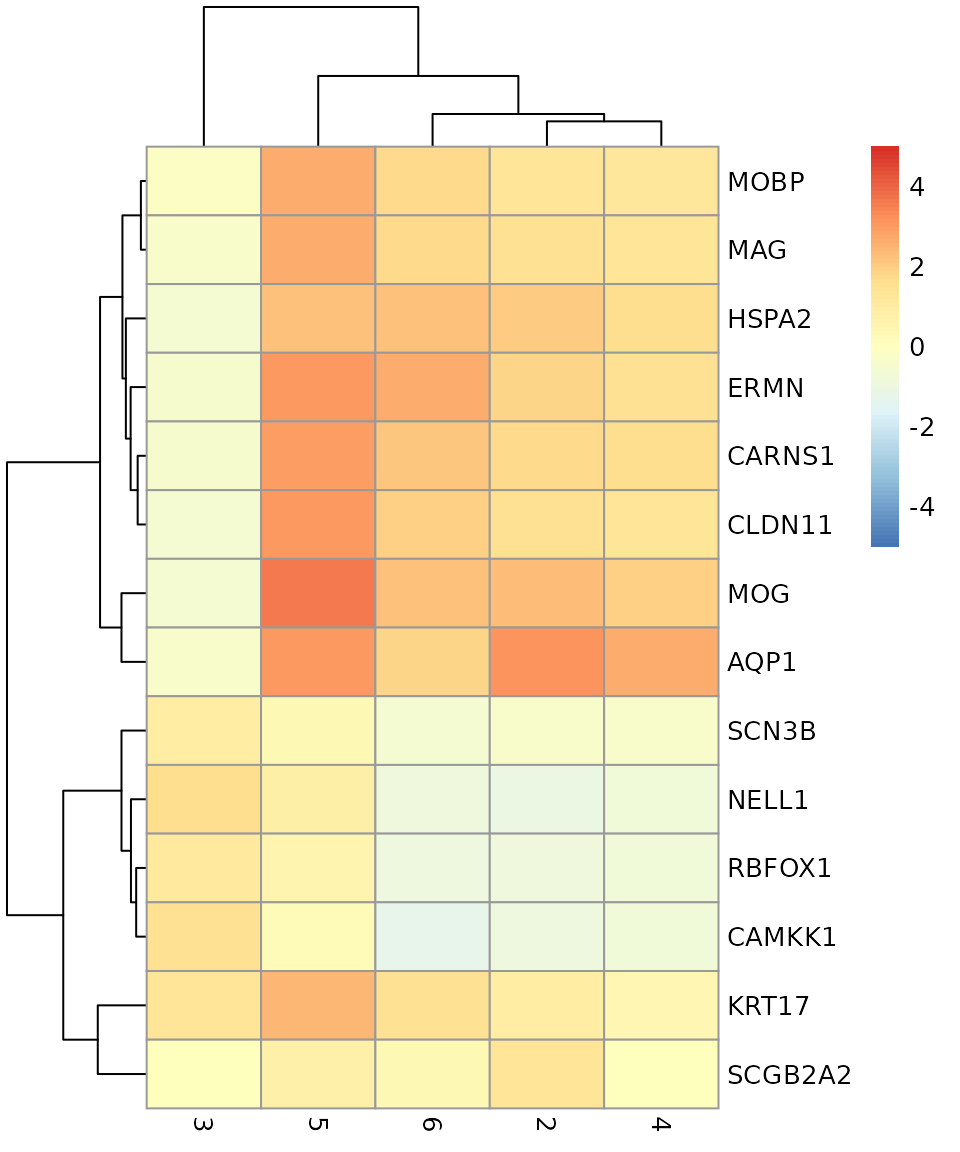
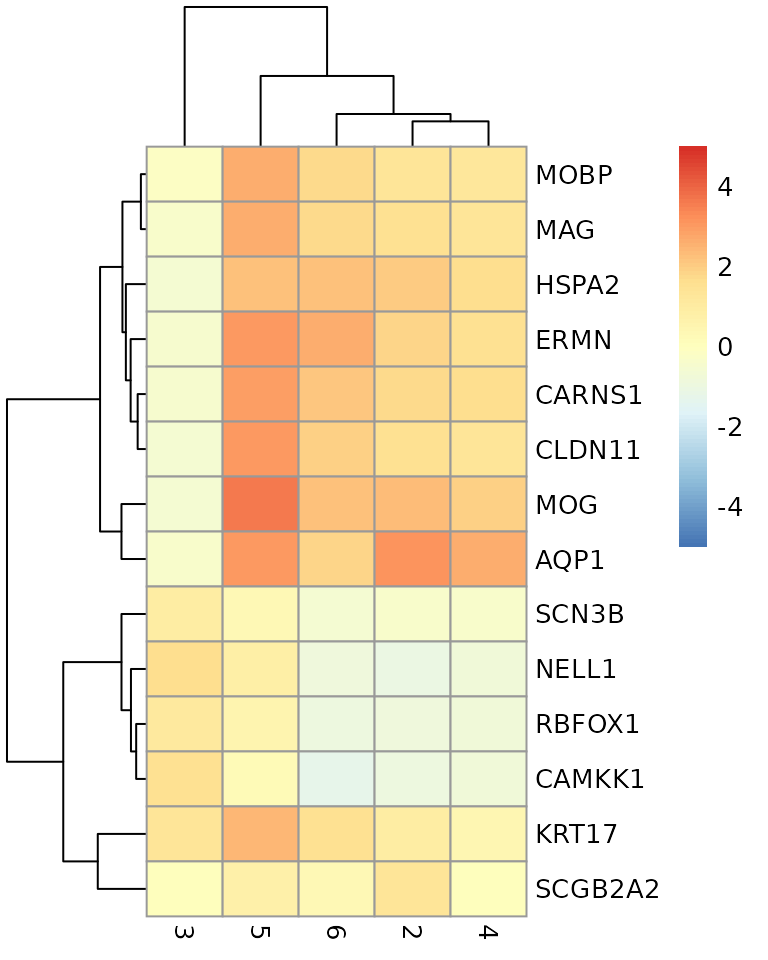
Deploying to gh-pages from  @ 534957017812c2b14cd5c3894c7c99ae3be02a8c 🚀

Changed region(s): [[0.0, 0.0, 0.9688, 1.0]]

diff --git a/articles/Vignette03_Analysis_workflow.html b/articles/Vignette03_Analysis_workflow.html
@@ -96,7 +96,7 @@
 
     
     
-<p>Last updated: 2021-08-07</p>
+<p>Last updated: 2021-08-08</p>
 <div id="visium-human-dlpfc-workflow" class="section level2">
 <h2 class="hasAnchor">
 <a href="#visium-human-dlpfc-workflow" class="anchor"></a>Visium human DLPFC workflow</h2>
@@ -108,7 +108,7 @@
 <a href="#load-data" class="anchor"></a>Load data</h2>
 <p>We begin by loading the dataset. We have stored a copy of this dataset in <a href="https://bioconductor.org/packages/SpatialExperiment">SpatialExperiment</a> format in the <a href="https://bioconductor.org/packages/STexampleData">STexampleData</a> package, to make it easier to load for use in examples and tutorials.</p>
 <p>If you are using the latest <code>devel</code> version of Bioconductor 3.14, the dataset can be loaded as shown in the code below.</p>
-<p>Alternatively, if you are working in a <code>release</code> version of Bioconductor 3.13, the helper function shown in the code comments can be used instead.</p>
+<p>Alternatively, if you are working in a <code>release</code> version of Bioconductor 3.13, the helper function shown in the code comments below can be used instead.</p>
 <div class="sourceCode" id="cb1"><pre class="downlit sourceCode r">
 <code class="sourceCode R"><span class="kw"><a href="https://rdrr.io/r/base/library.html">library</a></span><span class="op">(</span><span class="va">SpatialExperiment</span><span class="op">)</span>
 <span class="kw"><a href="https://rdrr.io/r/base/library.html">library</a></span><span class="op">(</span><span class="va"><a href="https://github.com/lmweber/STexampleData">STexampleData</a></span><span class="op">)</span>
@@ -134,7 +134,7 @@
 <span class="co">#&gt; spatialCoords names(2) : x y</span>
 <span class="co">#&gt; imgData names(4): sample_id image_id data scaleFactor</span></code></pre></div>
 <div class="sourceCode" id="cb2"><pre class="downlit sourceCode r">
-<code class="sourceCode R"><span class="co"># alternatively: load dataset using helper function if working in Bioc 3.13</span>
+<code class="sourceCode R"><span class="co"># alternatively: load dataset using helper function in Bioc 3.13</span>
 <span class="co"># spe &lt;- load_data("Visium_humanDLPFC")</span>
 <span class="co"># spe</span></code></pre></div>
 </div>
@@ -142,7 +142,7 @@
 <h2 class="hasAnchor">
 <a href="#plot-data" class="anchor"></a>Plot data</h2>
 <p>As an initial check, plot the spatial coordinates (spots) in x-y dimensions on the tissue slide, to check that the object has loaded correctly and that the orientation is as expected.</p>
-<p>We use visualization functions from the <a href="https://github.com/lmweber/ggpavis">ggspavis</a> package to generate plots.</p>
+<p>We use visualization functions from the <a href="https://github.com/lmweber/ggspavis">ggspavis</a> package to generate plots.</p>
 <div class="sourceCode" id="cb3"><pre class="downlit sourceCode r">
 <code class="sourceCode R"><span class="kw"><a href="https://rdrr.io/r/base/library.html">library</a></span><span class="op">(</span><span class="va"><a href="https://github.com/lmweber/ggspavis">ggspavis</a></span><span class="op">)</span></code></pre></div>
 <div class="sourceCode" id="cb4"><pre class="downlit sourceCode r">
@@ -240,7 +240,7 @@
 <div id="normalization" class="section level2">
 <h2 class="hasAnchor">
 <a href="#normalization" class="anchor"></a>Normalization</h2>
-<p>Calculate log-transformed normalized counts, using pool-based size factors and deconvolution to the spot level. We use normalization methods from <a href="https://bioconductor.org/packages/scater">scater</a> (<a href="https://doi.org/10.1093/bioinformatics/btw777">McCarthy et al. 2017</a>) and <a href="https://bioconductor.org/packages/scran">scran</a> (<a href="https://f1000research.com/articles/5-2122/v2">Lun et al. 2016</a>), by assuming that these methods can be applied by treating spots as equivalent to cells. Since we have a single sample, there are no blocking factors.</p>
+<p>Calculate log-transformed normalized counts, using pool-based size factors and deconvolution to the spot level. We use normalization methods from the <a href="https://bioconductor.org/packages/scater">scater</a> (<a href="https://doi.org/10.1093/bioinformatics/btw777">McCarthy et al. 2017</a>) and <a href="https://bioconductor.org/packages/scran">scran</a> (<a href="https://f1000research.com/articles/5-2122/v2">Lun et al. 2016</a>) packages, by assuming that these methods can be applied by treating spots as equivalent to cells. Since we have a single sample, there are no blocking factors.</p>
 <div class="sourceCode" id="cb12"><pre class="downlit sourceCode r">
 <code class="sourceCode R"><span class="kw"><a href="https://rdrr.io/r/base/library.html">library</a></span><span class="op">(</span><span class="va">scran</span><span class="op">)</span></code></pre></div>
 <div class="sourceCode" id="cb13"><pre class="downlit sourceCode r">
@@ -384,13 +384,13 @@
 <span class="va">logFCs</span> <span class="op">&lt;-</span> <span class="fu"><a href="https://rdrr.io/pkg/scran/man/getMarkerEffects.html">getMarkerEffects</a></span><span class="op">(</span><span class="va">best_set</span><span class="op">)</span>
 
 <span class="fu"><a href="https://rdrr.io/pkg/pheatmap/man/pheatmap.html">pheatmap</a></span><span class="op">(</span><span class="va">logFCs</span>, breaks <span class="op">=</span> <span class="fu"><a href="https://rdrr.io/r/base/seq.html">seq</a></span><span class="op">(</span><span class="op">-</span><span class="fl">5</span>, <span class="fl">5</span>, length.out <span class="op">=</span> <span class="fl">101</span><span class="op">)</span><span class="op">)</span></code></pre></div>
-<p><img src="Vignette03_Analysis_workflow_files/figure-html/unnamed-chunk-23-1.png" width="480"></p>
+<p><img src="Vignette03_Analysis_workflow_files/figure-html/unnamed-chunk-23-1.png" width="384"></p>
 <div class="sourceCode" id="cb27"><pre class="downlit sourceCode r">
 <code class="sourceCode R"><span class="co"># plot log-transformed normalized expression of top genes for one cluster</span>
 <span class="va">top_genes</span> <span class="op">&lt;-</span> <span class="fu"><a href="https://rdrr.io/r/utils/head.html">head</a></span><span class="op">(</span><span class="fu"><a href="https://rdrr.io/r/base/colnames.html">rownames</a></span><span class="op">(</span><span class="va">interesting</span><span class="op">)</span><span class="op">)</span>
 
 <span class="fu"><a href="https://rdrr.io/pkg/scater/man/plotExpression.html">plotExpression</a></span><span class="op">(</span><span class="va">spe</span>, x <span class="op">=</span> <span class="st">"label"</span>, features <span class="op">=</span> <span class="va">top_genes</span><span class="op">)</span></code></pre></div>
-<p><img src="Vignette03_Analysis_workflow_files/figure-html/unnamed-chunk-24-1.png" width="672"></p>
+<p><img src="Vignette03_Analysis_workflow_files/figure-html/unnamed-chunk-24-1.png" width="528"></p>
 </div>
   </div>
 

diff --git a/articles/Vignette02_Dataset_and_preprocessing.html b/articles/Vignette02_Dataset_and_preprocessing.html
@@ -96,7 +96,7 @@
 
     
     
-<p>Last updated: 2021-08-07</p>
+<p>Last updated: 2021-08-08</p>
 <div id="example-dataset-human-brain-dlpfc-region" class="section level2">
 <h2 class="hasAnchor">
 <a href="#example-dataset-human-brain-dlpfc-region" class="anchor"></a>Example dataset: human brain DLPFC region</h2>
@@ -116,7 +116,7 @@
 <h2 class="hasAnchor">
 <a href="#image-segmentation-and-cell-counting" class="anchor"></a>Image segmentation and cell counting</h2>
 <p>The first step is to process the raw images, which includes splitting multiple capture areas into individual samples, segmenting cell nuclei, and identifying the number of cells per spot.</p>
-<p>For more details, see the chapter <a href="https://lmweber.org/OSTA-book/image-segmentation-visium.html">Image segmentation (Visium)</a> in OSTA, as well as the paper <a href="https://www.biorxiv.org/content/10.1101/2021.08.04.452489v1">Tippani et al. (2021)</a> describing the <a href="https://github.com/LieberInstitute/VistoSeg">VistoSeg</a> tool.</p>
+<p>For more details, see the chapter <a href="https://lmweber.org/OSTA-book/image-segmentation-visium.html">Image segmentation (Visium)</a> in OSTA, as well as the paper <a href="https://www.biorxiv.org/content/10.1101/2021.08.04.452489v1">Tippani et al. (2021)</a> describing the <a href="http://research.libd.org/VistoSeg/">VistoSeg</a> tool.</p>
 <p>Note that part of this step also requires the Space Ranger outputs described next.</p>
 </div>
 <div id="loupe-browser-and-space-ranger" class="section level2">
@@ -130,7 +130,7 @@
 <a href="#spatialexperiment" class="anchor"></a>SpatialExperiment</h2>
 <p>After running Loupe Browser and Space Ranger, we are ready to load the data into R.</p>
 <p>For this, we use the <a href="https://bioconductor.org/packages/SpatialExperiment">SpatialExperiment</a> data structure. For more details, see the <a href="https://lmweber.org/OSTA-book/spatialexperiment.html">SpatialExperiment</a> chapter in OSTA, or our additional <a href="https://drighelli.github.io/SpatialExperiment_Bioc2021/index.html">SpatialExperiment workshop</a>.</p>
-<p>The schematic below illustrates the <code>SpatialExperiment</code> structure, which extends <a href="https://bioconductor.org/packages/SingleCellExperiment">SingleCellExperiment</a> to include additional spatial information. The structure is flexible, and has been designed to work with data from 10x Genomics Visium as well as other spot-based and molecule-based ST platforms.</p>
+<p>The schematic below illustrates the <code>SpatialExperiment</code> structure, which extends <a href="https://bioconductor.org/packages/SingleCellExperiment">SingleCellExperiment</a> to include additional spatial and image information. The structure is flexible, and has been designed to work with data from 10x Genomics Visium as well as other spot-based and molecule-based ST platforms.</p>
 <div class="figure" style="text-align: center">
 <img src="../inst/images/spe.png" alt="Schematic illustrating [SpatialExperiment](https://bioconductor.org/packages/SpatialExperiment) class structure." width="100%"><p class="caption">
 Schematic illustrating <a href="https://bioconductor.org/packages/SpatialExperiment">SpatialExperiment</a> class structure.

diff --git a/articles/Vignette01_Introduction.html b/articles/Vignette01_Introduction.html
@@ -96,7 +96,7 @@
 
     
     
-<p>Last updated: 2021-08-07</p>
+<p>Last updated: 2021-08-08</p>
 <div id="spatially-resolved-transcriptomics-st" class="section level2">
 <h2 class="hasAnchor">
 <a href="#spatially-resolved-transcriptomics-st" class="anchor"></a>Spatially resolved transcriptomics (ST)</h2>
@@ -126,7 +126,8 @@ Schematic of 10x Genomics Visium platform. Image source: <a href="https://www.10
 <div id="data-structure" class="section level2">
 <h2 class="hasAnchor">
 <a href="#data-structure" class="anchor"></a>Data structure</h2>
-<p>For each Visium sample, we obtain a matrix of read counts for up to 5,000 spots, as illustrated below. Note that in the Bioconductor format in <a href="https://bioconductor.org/packages/SpatialExperiment">SpatialExperiment</a>, this is stored in the transposed format with genes in rows and spots in columns.</p>
+<p>For each Visium sample, we obtain a matrix of read counts for up to 5,000 spots, as illustrated below.</p>
+<p>Note that in the Bioconductor format in <a href="https://bioconductor.org/packages/SpatialExperiment">SpatialExperiment</a>, this is stored in the transposed format with genes in rows and spots in columns.</p>
 <p>In addition, we have the image of the tissue slide (described in the following sections), which allows us to align the molecular and spatial information.</p>
 <div class="figure" style="text-align: center">
 <img src="../inst/images/data_structure_schematic.png" alt="Schematic of data format from 10x Genomics Visium platform." width="35%"><p class="caption">
@@ -142,8 +143,8 @@ Schematic of data format from 10x Genomics Visium platform.
 <p>Here, we note that the <a href="https://bioconductor.org/books/release/OSCA/">OSCA</a> book (“Orchestrating Single-Cell Analysis with Bioconductor”, <a href="https://www.nature.com/articles/s41592-019-0654-x">Amezquita et al. 2019</a>) is an excellent resource if you are interested in analyzing single-cell data with Bioconductor (and was the inspiration for developing OSTA for ST data).</p>
 <p>However, this approximation (spots as equivalent to cells) is not perfect – spots may contain zero, one, or many cells – and in addition it ignores any additional information contained in the spatial relationships or distances between spots.</p>
 <div class="figure" style="text-align: center">
-<img src="../inst/images/OSCA.png" alt="Screenshot of [OSCA]](https://bioconductor.org/books/release/OSCA/) online book." width="70%"><p class="caption">
-Screenshot of [OSCA]](<a href="https://bioconductor.org/books/release/OSCA/" class="uri">https://bioconductor.org/books/release/OSCA/</a>) online book.
+<img src="../inst/images/OSCA.png" alt="Screenshot of [OSCA](https://bioconductor.org/books/release/OSCA/) online book." width="70%"><p class="caption">
+Screenshot of <a href="https://bioconductor.org/books/release/OSCA/">OSCA</a> online book.
 </p>
 </div>
 </div>

diff --git a/index.html b/index.html
@@ -93,9 +93,13 @@
 <h2 class="hasAnchor">
 <a href="#links" class="anchor"></a>Links</h2>
 <ul>
-<li>Link to rendered workshop page: <a href="https://lmweber.org/OSTAWorkshopBioc2021/" class="uri">https://lmweber.org/OSTAWorkshopBioc2021/</a>
+<li>Workshop website: <a href="https://lmweber.org/OSTAWorkshopBioc2021/" class="uri">https://lmweber.org/OSTAWorkshopBioc2021/</a>
 </li>
-<li>Link to source repository: <a href="https://github.com/lmweber/OSTAWorkshopBioc2021" class="uri">https://github.com/lmweber/OSTAWorkshopBioc2021</a>
+<li>Workshop source repository: <a href="https://github.com/lmweber/OSTAWorkshopBioc2021" class="uri">https://github.com/lmweber/OSTAWorkshopBioc2021</a>
+</li>
+<li>OSTA website: <a href="https://lmweber.org/OSTA-book/" class="uri">https://lmweber.org/OSTA-book/</a>
+</li>
+<li>OSTA source repository: <a href="https://github.com/lmweber/OSTA-book" class="uri">https://github.com/lmweber/OSTA-book</a>
 </li>
 </ul>
 </div>
